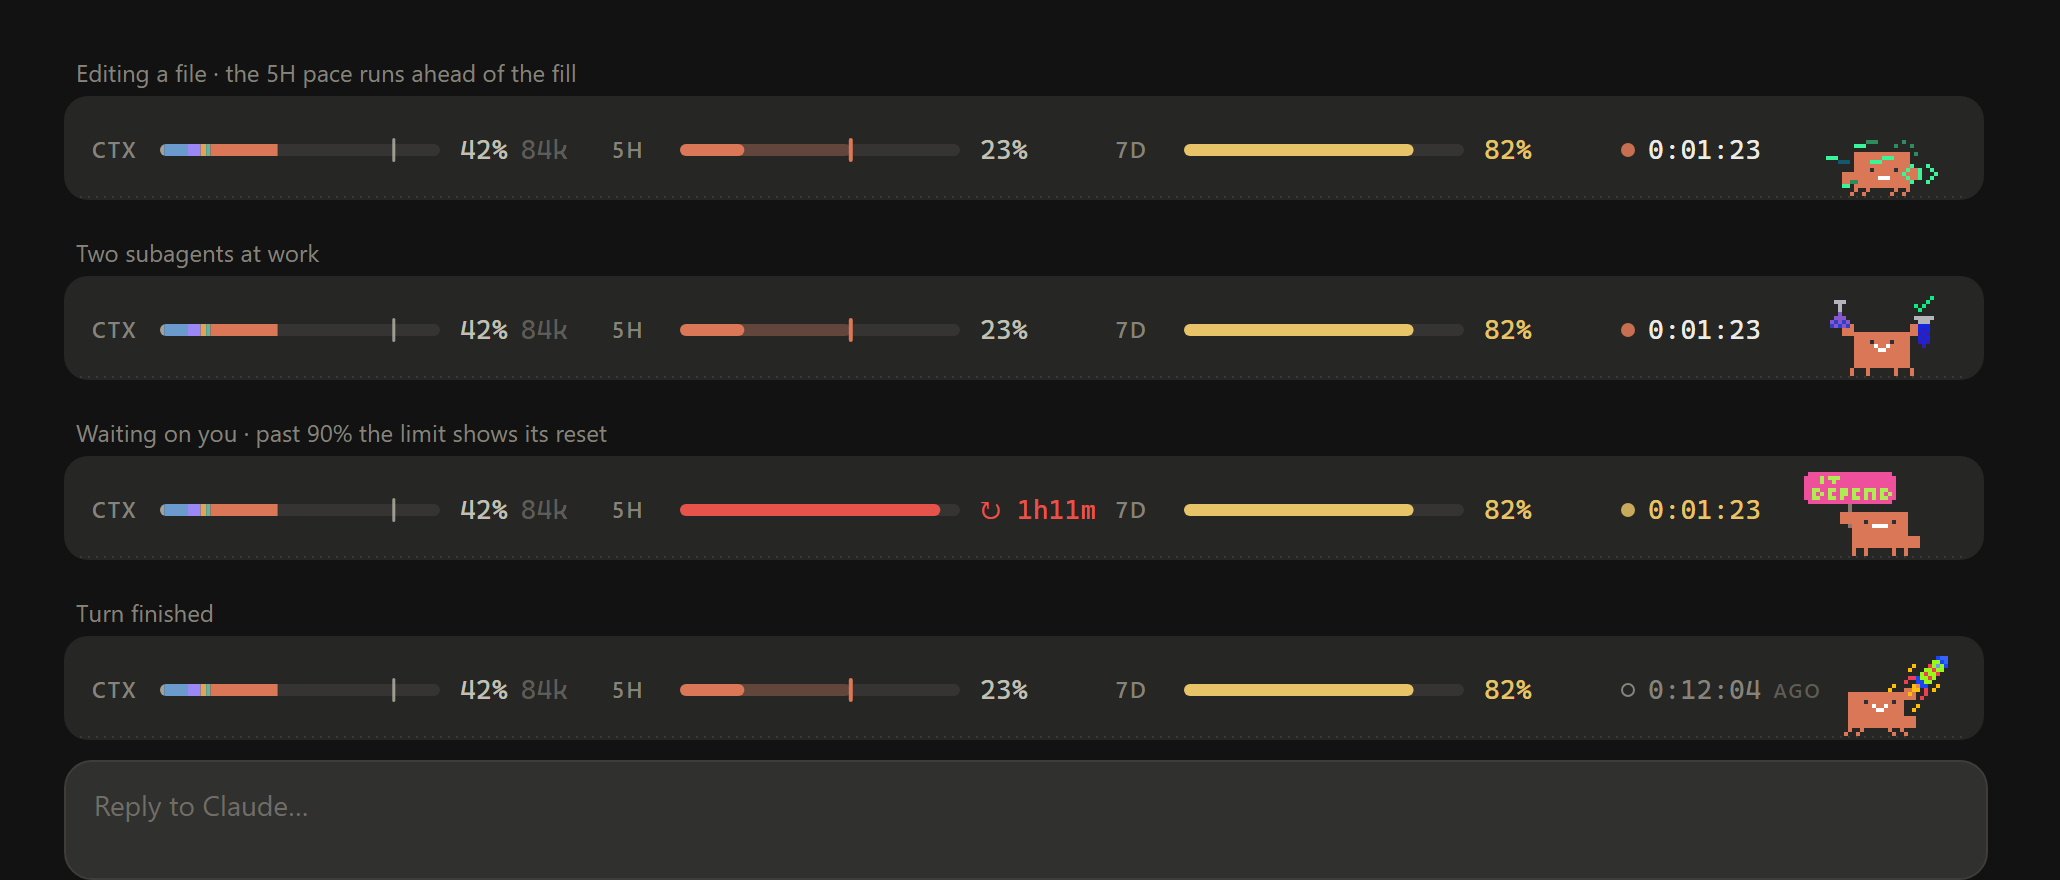
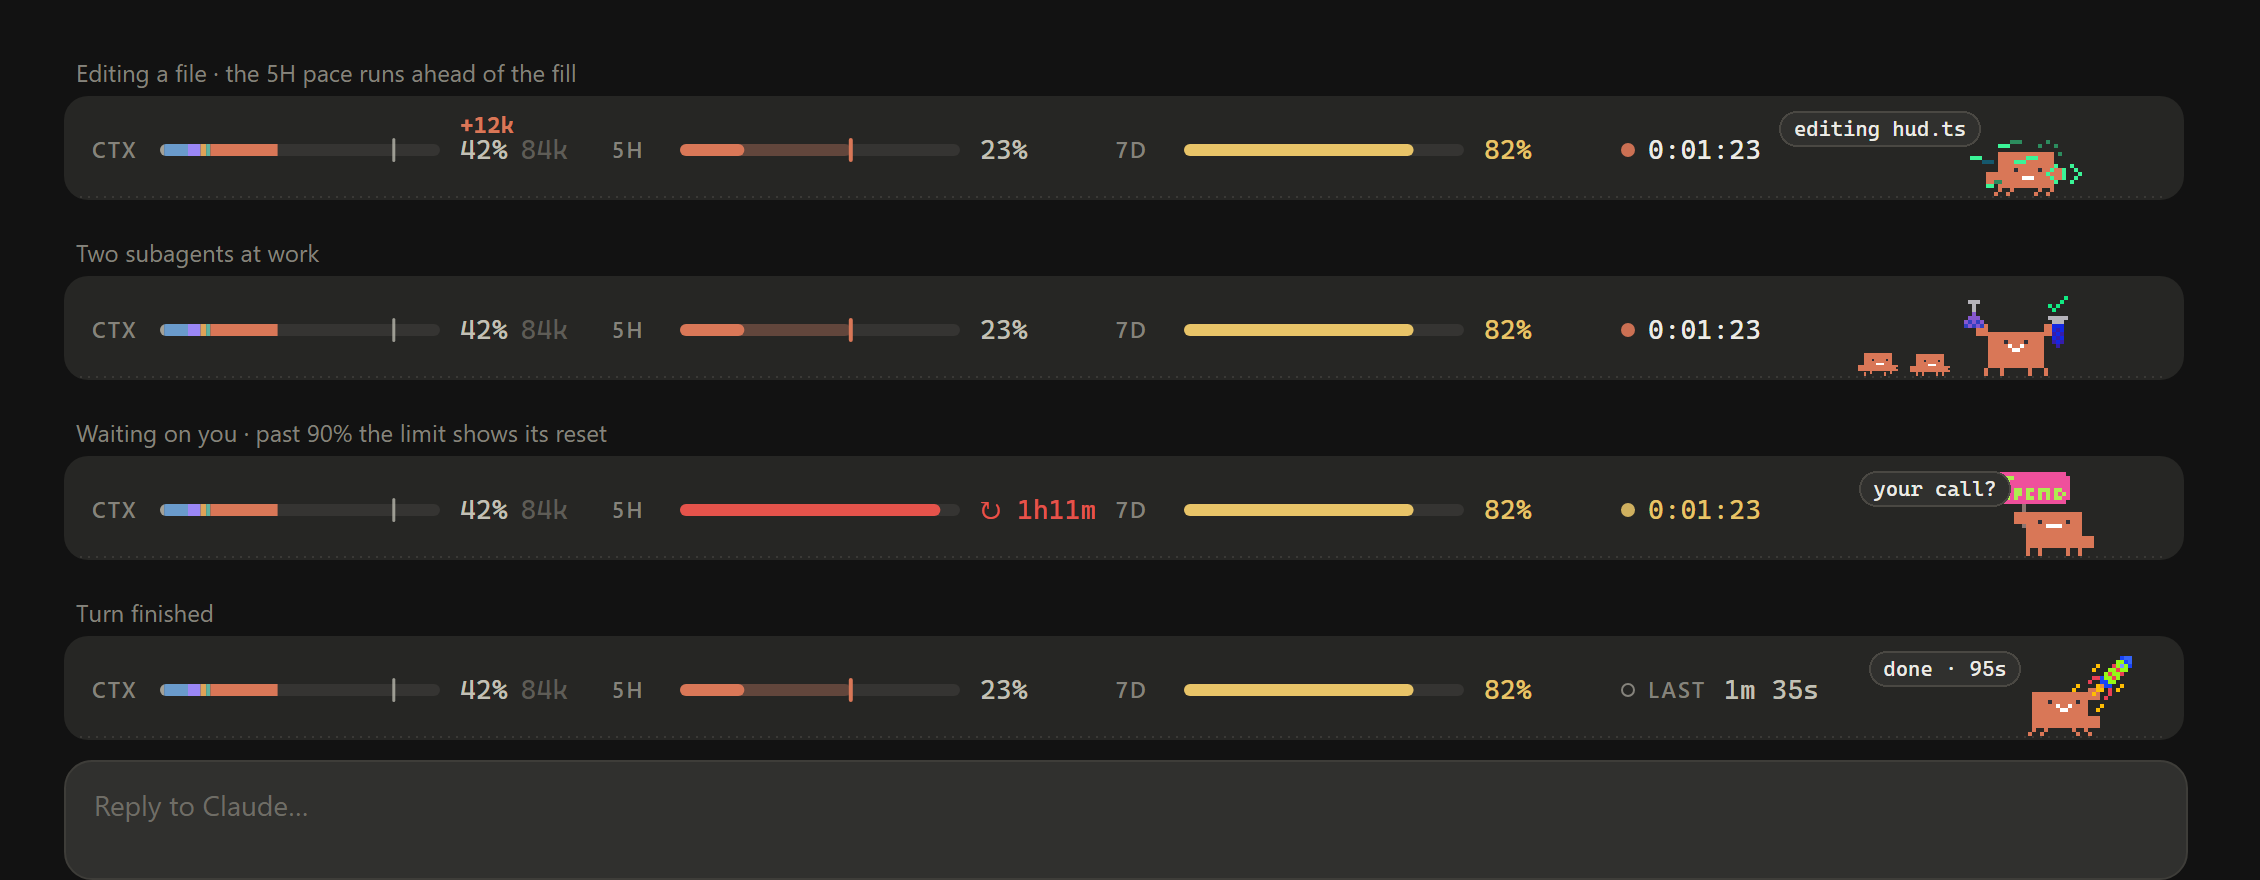
updated timer to show time taken by last run

diff --git a/tools/preview.ts b/tools/preview.ts
@@ -16,7 +16,7 @@ const H = stageH()
 let seed = 7
 const r = () => (seed = (seed * 16807) % 2147483647) / 2147483647
 const now = Date.now()
-const W = 960
+const W = 1060
 const info = (working: boolean, extra: Record<string, unknown> = {}) => ({
   ctx: { pct: 42, tokens: 84000, window: 200000, max: 200000, compactAt: 167000, cats: ([['System prompt', 3000], ['System tools', 17000], ['MCP tools', 9000], ['Memory files', 4000], ['Skills', 3000], ['Messages', 48000]] as const).map(([name, tokens]) => ({ name, tokens })) },
   limits: [{ kind: 'five_hour', pct: 23, resetsAt: new Date(now + 8e6).toISOString() }, { kind: 'seven_day', pct: 82 }],
@@ -27,10 +27,10 @@ const info = (working: boolean, extra: Record<string, unknown> = {}) => ({
 // a scene that holds one pose at x, so a still capture shows it
 const hold = (pose: string, x: number, say?: string): Seg[] => [{ kind: 'pose', ms: 600_000, x0: x, x1: x, pose, ...(say ? { say } : {}) }]
 const bars: [string, string][] = [ // the first four are stills for docs/hero.png
-  ['Editing a file · the 5H pace runs ahead of the fill', render(hold('writing-software-code', 860, 'editing hud.ts'), W, { hud: hud(W, H, now, info(true, { flash: { text: '+12k', at: now - 900 } })) })],
-  ['Two subagents at work', render(hold('lab-science-testing', 830), W, { hud: hud(W, H, now, info(true)), minis: 2 })],
-  ['Waiting on you · past 90% the limit shows its reset', render(hold('it-depends-sign', 870, 'your call?'), W, { hud: hud(W, H, now, info(true, { waiting: true, limits: [{ kind: 'five_hour', pct: 93, resetsAt: new Date(now + 4.3e6).toISOString() }, { kind: 'seven_day', pct: 82 }], burn: null })) })],
-  ['Turn finished', render(hold('rocket-launch-success', 900, 'done · 95s'), W, { hud: hud(W, H, now, info(false)) })],
+  ['Editing a file · the 5H pace runs ahead of the fill', render(hold('writing-software-code', 980, 'editing hud.ts'), W, { hud: hud(W, H, now, info(true, { flash: { text: '+12k', at: now - 900 } })) })],
+  ['Two subagents at work', render(hold('lab-science-testing', 975), W, { hud: hud(W, H, now, info(true)), minis: 2 })],
+  ['Waiting on you · past 90% the limit shows its reset', render(hold('it-depends-sign', 995, 'your call?'), W, { hud: hud(W, H, now, info(true, { waiting: true, limits: [{ kind: 'five_hour', pct: 93, resetsAt: new Date(now + 4.3e6).toISOString() }, { kind: 'seven_day', pct: 82 }], burn: null })) })],
+  ['Turn finished', render(hold('rocket-launch-success', 1000, 'done · 95s'), W, { hud: hud(W, H, now, info(false)) })],
   ['Idle, wandering (live)', render(plan(r, 500, W, 'idle', CUES.hobby), W, { hud: hud(W, H, now, info(false)), hover: 'taking it easy', click: { pose: 'love-cloud-pixel', say: 'hi!' } })],
   ['Busy (live)', render(react(r, 'thinking-pixel-bubble', '…', 420, W, 'busy', WORK.edit), W, { hud: hud(W, H, now, info(true)), hover: 'editing hud.ts', click: { pose: 'happy-pixel-celebrating', say: 'boop!' } })],
 ]

diff --git a/clawd-bar/hooks/hud.ts b/clawd-bar/hooks/hud.ts
@@ -172,10 +172,11 @@ const clockSlot = (x: number, y: number, now: number, i: Info) => {
     return slot(x, slotW('clock'), y, title, dot + wheels(x + 14, y, now - i.turnAt, i.waiting ? C.yellow : '#ecebe6'))
   }
   if (i.endAt === null) return slot(x, 20, y, 'Ready: no turn has run in this session yet', `<circle cx="${x + 4}" cy="${y}" r="3.5" fill="none" stroke="${C.muted}" stroke-width="1.5"/>`)
+  // done: how long the last turn ran (42s, 5m 12s, 1h 20m), so a long job's length stays readable afterwards
   const title = `Last turn ran ${span(i.lastMs ?? 0)} and finished at ${new Date(i.endAt).toLocaleTimeString([], { hour: '2-digit', minute: '2-digit' })}`
   return slot(x, slotW('clock'), y, title,
-    `<circle cx="${x + 4}" cy="${y}" r="3" fill="none" stroke="${C.muted}"/>` + wheels(x + 14, y, now - i.endAt, C.muted) +
-    `<text x="${(x + 14 + 7 * CW + 6).toFixed(1)}" y="${y + 4}" font-size="${LFS - 1}" letter-spacing="1" font-weight="600" ${SANS} fill="${C.faint}">AGO</text>`)
+    `<circle cx="${x + 4}" cy="${y}" r="3" fill="none" stroke="${C.muted}"/>` + label(x + 14, y, 'LAST') +
+    value(x + 14 + 38, y, span(i.lastMs ?? 0), C.text))
 }
 
 // Lays the slots out from the left. A narrow bar shortens all three meters alike first; past that the clock

diff --git a/README.md b/README.md
@@ -25,7 +25,7 @@ A 52px bar above the input box in the **Claude Code desktop app**. It has two la
 | `CTX` | Context window fill, as a bar split by **what** is filling it: messages, system tools, MCP tools, memory files, skills. A tick marks where **auto-compact** kicks in. After each turn, the change (`+12k`) floats up from the number. Hover for the token breakdown. |
 | `5H` | Your 5-hour usage limit, with your **pace**: a faint extension of the bar and a tick show where you'll be at the reset. The tooltip says "100% in ~40m" if you'll hit the limit first. |
 | `7D` | Your weekly limit. |
-| clock | ● counts how long the current turn has run. It turns **yellow and pulses faster when Claude is waiting on you** (a permission prompt or a question). ○ counts how long ago the last turn finished. |
+| clock | ● counts how long the current turn has run. It turns **yellow and pulses faster when Claude is waiting on you** (a permission prompt or a question). ○ `LAST 5m 12s` shows how long the last turn ran, so you can see how long a job took after it's done. |
 
 Every meter uses one colour rule: Claude orange, **yellow from 75%**, **red from 90%**. Past 90% a limit shows its reset countdown (`↻ 1h12m`) instead of the percentage, because that's the number you need then.
 
